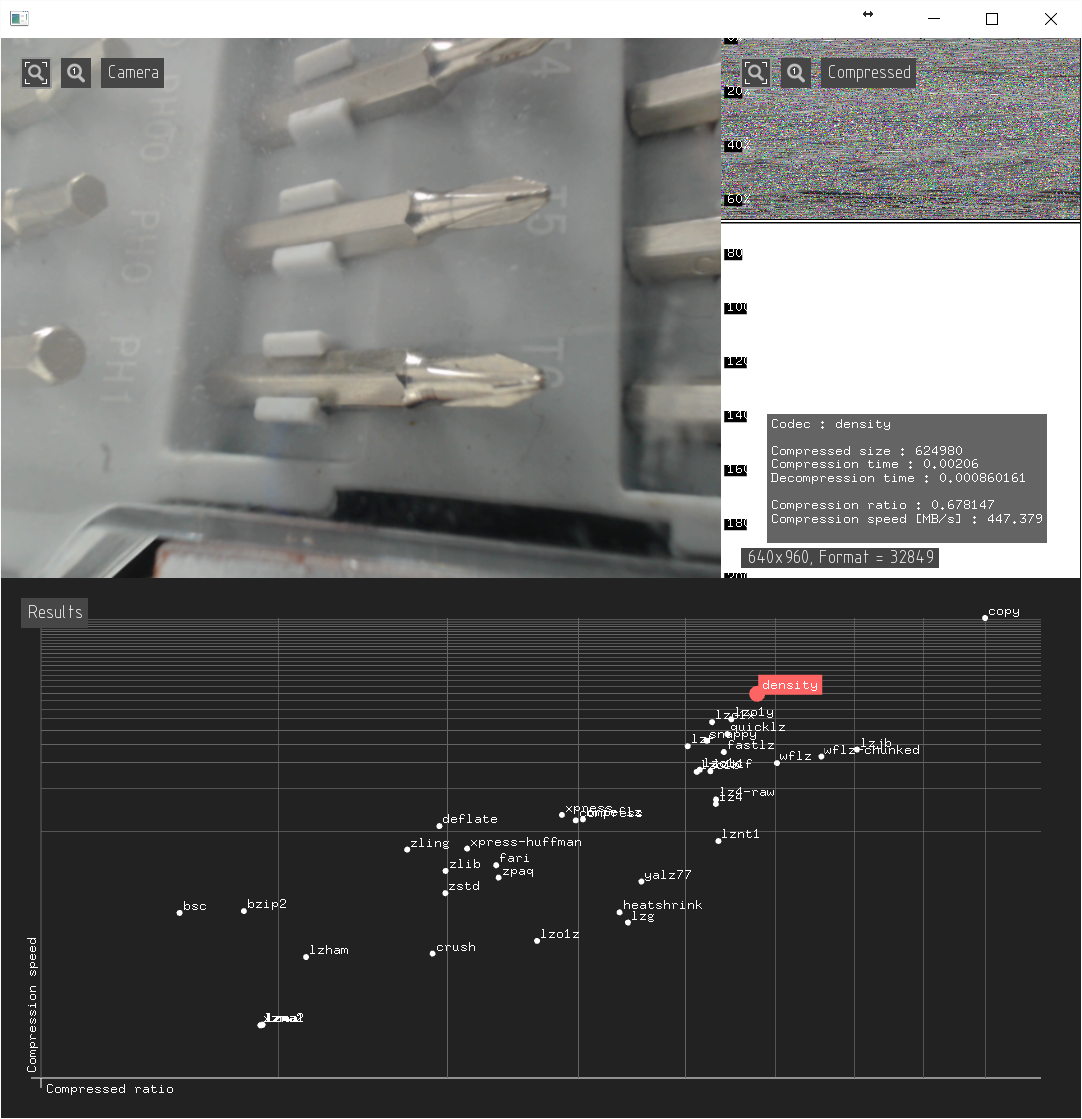
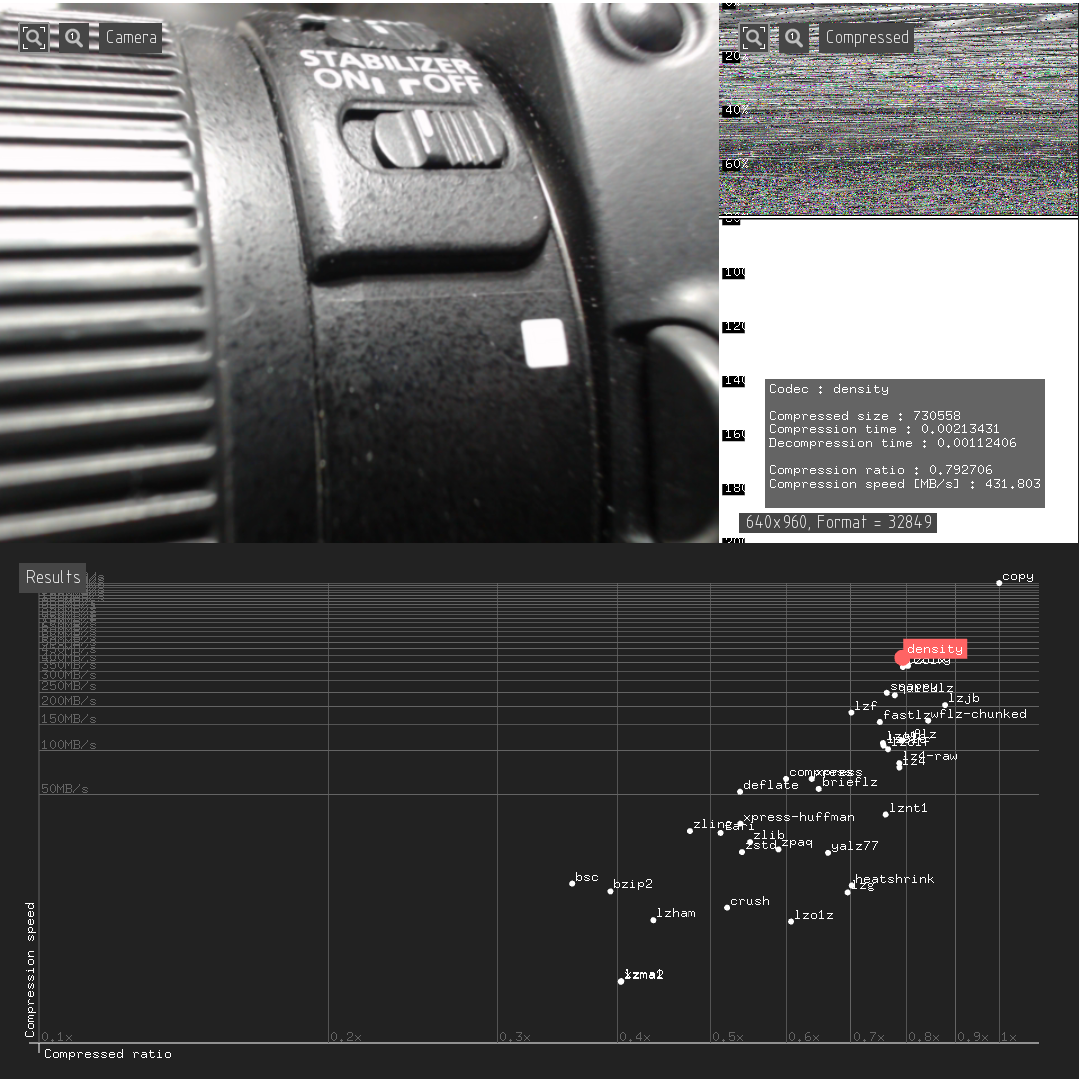
better gui example

diff --git a/exampleVideoGrabberAndGui/src/ofApp.cpp b/exampleVideoGrabberAndGui/src/ofApp.cpp
@@ -123,7 +123,7 @@ void ofApp::setup(){
 		auto toGraph = [this, args](float compressionRatio, float compressionSpeed) {
 			ofVec2f pos;
 			
-			pos.x = ofMap(log(compressionRatio), log(0.2), log(this->maxCompressionRatio), 40, args.localBounds.width - 40);
+			pos.x = ofMap(log(compressionRatio), log(0.1), log(this->maxCompressionRatio), 40, args.localBounds.width - 40);
 			pos.y = ofMap(log(compressionSpeed), log(1), log(this->maxCompressionSpeed), args.localBounds.height - 40, 40);
 
 			return pos;
@@ -150,10 +150,12 @@ void ofApp::setup(){
 			for (float compressionRatio = 0.1; compressionRatio < this->maxCompressionRatio; compressionRatio += 0.1f) {
 				auto pos = toGraph(compressionRatio, 0);
 				ofLine(pos.x, 40, pos.x, args.localBounds.height - 40);
+				ofDrawBitmapString(ofToString(compressionRatio) + "x", pos.x + 2, args.localBounds.height - 40 - 2);
 			}
 			for (float compressionSpeed = 50; compressionSpeed < this->maxCompressionSpeed; compressionSpeed += 50.0f) {
 				auto pos = toGraph(0, compressionSpeed);
 				ofLine(40, pos.y, args.localBounds.width - 40, pos.y);
+				ofDrawBitmapString(ofToString(compressionSpeed) + "MB/s", 40 + 2, pos.y - 2);
 			}
 		}
 		ofPopStyle();
